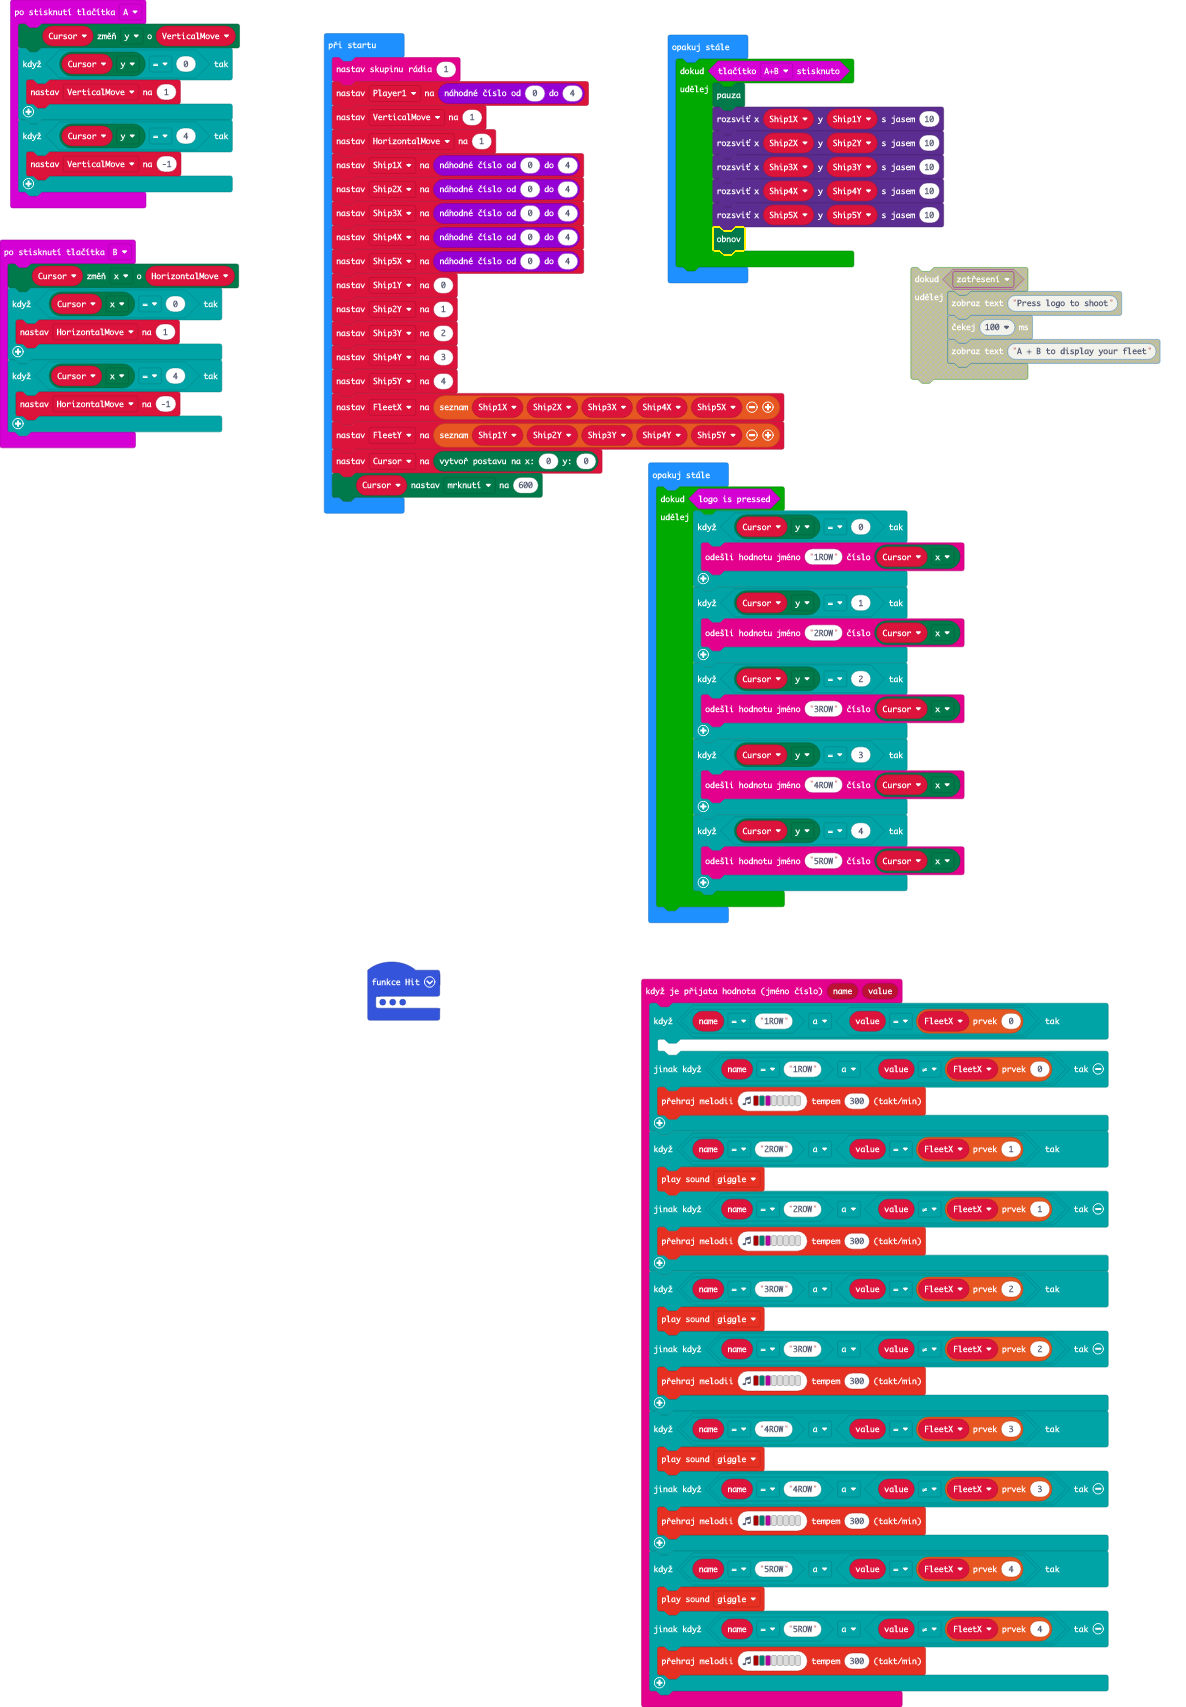
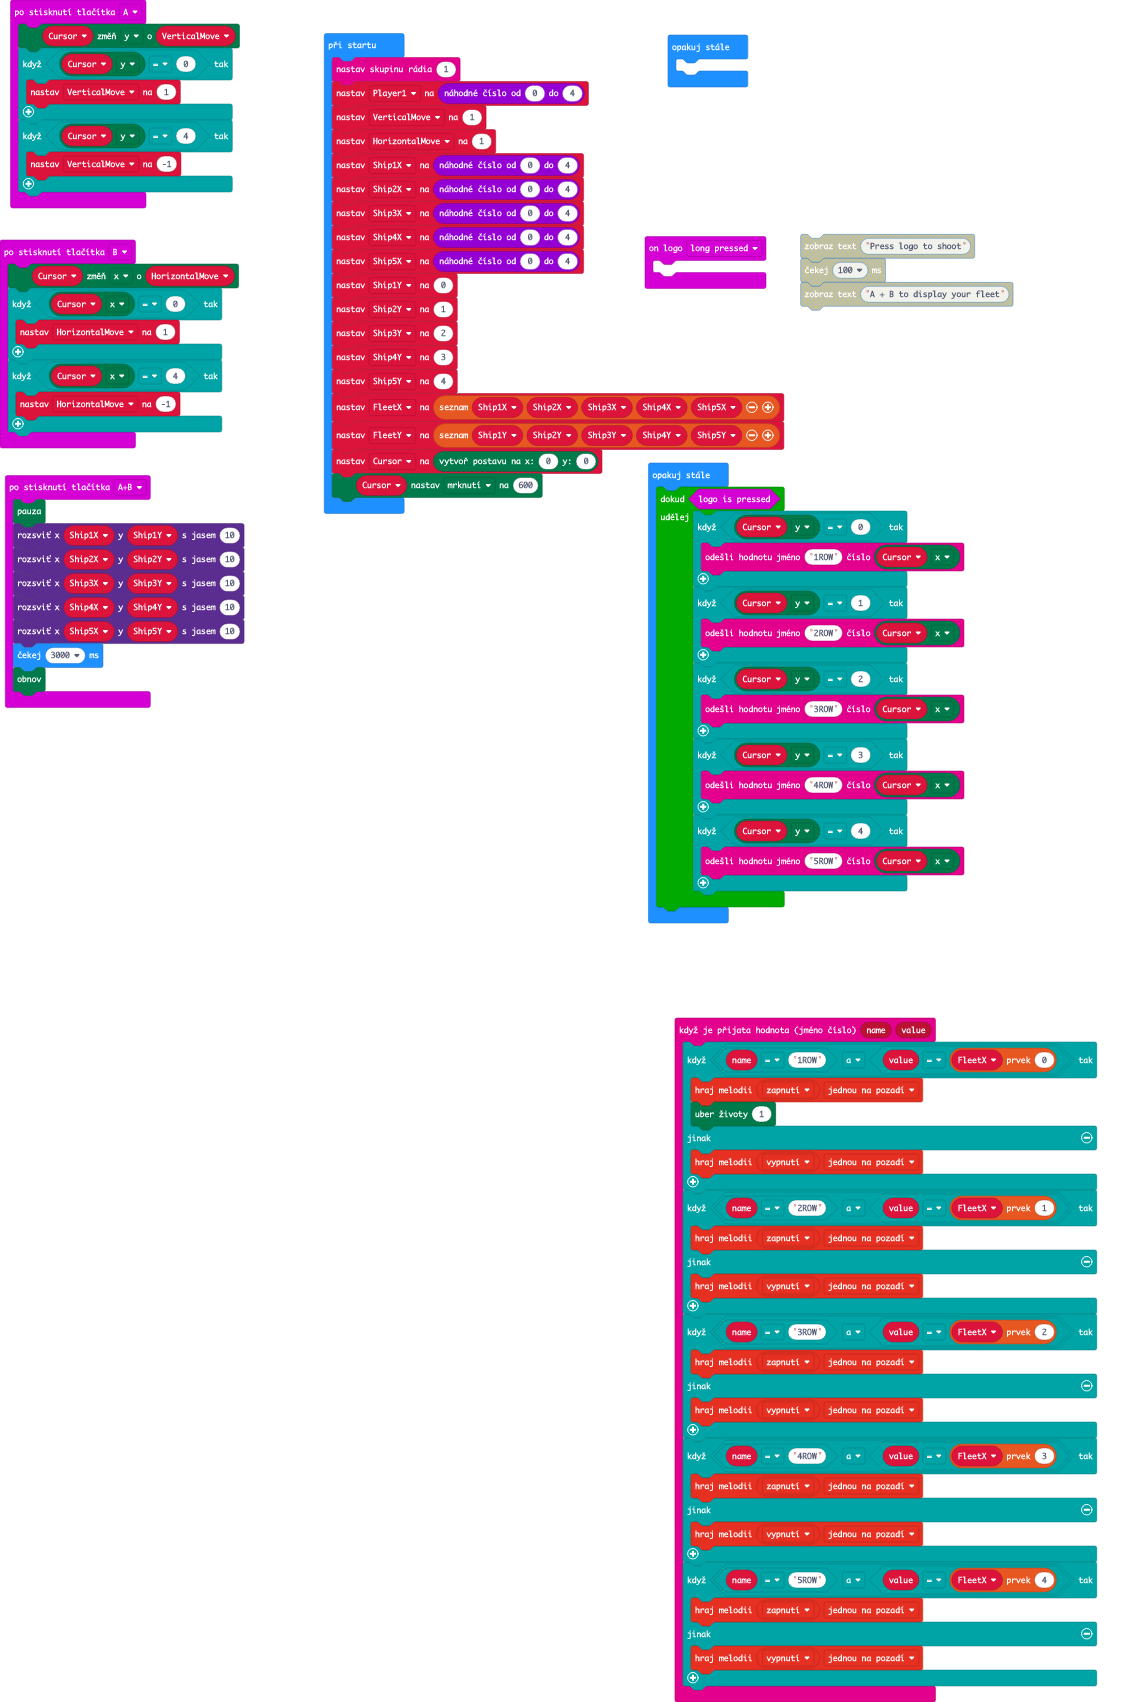
Final sound efx, A+B hint improved

diff --git a/main.ts b/main.ts
@@ -1,3 +1,6 @@
+input.onLogoEvent(TouchButtonEvent.LongPressed, function () {
+	
+})
 input.onButtonPressed(Button.A, function () {
     Cursor.change(LedSpriteProperty.Y, VerticalMove)
     if (Cursor.get(LedSpriteProperty.Y) == 0) {
@@ -6,6 +9,16 @@ input.onButtonPressed(Button.A, function () {
     if (Cursor.get(LedSpriteProperty.Y) == 4) {
         VerticalMove = -1
     }
+})
+input.onButtonPressed(Button.AB, function () {
+    game.pause()
+    led.plotBrightness(Ship1X, Ship1Y, 10)
+    led.plotBrightness(Ship2X, Ship2Y, 10)
+    led.plotBrightness(Ship3X, Ship3Y, 10)
+    led.plotBrightness(Ship4X, Ship4Y, 10)
+    led.plotBrightness(Ship5X, Ship5Y, 10)
+    basic.pause(3000)
+    game.resume()
 })
 input.onButtonPressed(Button.B, function () {
     Cursor.change(LedSpriteProperty.X, HorizontalMove)
@@ -18,67 +31,66 @@ input.onButtonPressed(Button.B, function () {
 })
 radio.onReceivedValue(function (name, value) {
     if (name == "1ROW" && value == FleetX[0]) {
-    	
-    } else if (name == "1ROW" && value != FleetX[0]) {
-        music.playMelody("C5 F C - - - - - ", 300)
+        music.startMelody(music.builtInMelody(Melodies.PowerUp), MelodyOptions.OnceInBackground)
+        game.removeLife(1)
+    } else {
+        music.startMelody(music.builtInMelody(Melodies.PowerDown), MelodyOptions.OnceInBackground)
     }
     if (name == "2ROW" && value == FleetX[1]) {
-        soundExpression.giggle.play()
-    } else if (name == "2ROW" && value != FleetX[1]) {
-        music.playMelody("C5 F C - - - - - ", 300)
+        music.startMelody(music.builtInMelody(Melodies.PowerUp), MelodyOptions.OnceInBackground)
+    } else {
+        music.startMelody(music.builtInMelody(Melodies.PowerDown), MelodyOptions.OnceInBackground)
     }
     if (name == "3ROW" && value == FleetX[2]) {
-        soundExpression.giggle.play()
-    } else if (name == "3ROW" && value != FleetX[2]) {
-        music.playMelody("C5 F C - - - - - ", 300)
+        music.startMelody(music.builtInMelody(Melodies.PowerUp), MelodyOptions.OnceInBackground)
+    } else {
+        music.startMelody(music.builtInMelody(Melodies.PowerDown), MelodyOptions.OnceInBackground)
     }
     if (name == "4ROW" && value == FleetX[3]) {
-        soundExpression.giggle.play()
-    } else if (name == "4ROW" && value != FleetX[3]) {
-        music.playMelody("C5 F C - - - - - ", 300)
+        music.startMelody(music.builtInMelody(Melodies.PowerUp), MelodyOptions.OnceInBackground)
+    } else {
+        music.startMelody(music.builtInMelody(Melodies.PowerDown), MelodyOptions.OnceInBackground)
     }
     if (name == "5ROW" && value == FleetX[4]) {
-        soundExpression.giggle.play()
-    } else if (name == "5ROW" && value != FleetX[4]) {
-        music.playMelody("C5 F C - - - - - ", 300)
+        music.startMelody(music.builtInMelody(Melodies.PowerUp), MelodyOptions.OnceInBackground)
+    } else {
+        music.startMelody(music.builtInMelody(Melodies.PowerDown), MelodyOptions.OnceInBackground)
     }
 })
-function Hit () {
-    radio.sendValue("1ROW-HIT", FleetX[0])
-    soundExpression.giggle.play()
-}
 let Cursor: game.LedSprite = null
 let FleetX: number[] = []
+let Ship5Y = 0
+let Ship4Y = 0
+let Ship3Y = 0
+let Ship2Y = 0
+let Ship1Y = 0
+let Ship5X = 0
+let Ship4X = 0
+let Ship3X = 0
+let Ship2X = 0
+let Ship1X = 0
 let HorizontalMove = 0
 let VerticalMove = 0
 radio.setGroup(1)
 let Player1 = randint(0, 4)
 VerticalMove = 1
 HorizontalMove = 1
-let Ship1X = randint(0, 4)
-let Ship2X = randint(0, 4)
-let Ship3X = randint(0, 4)
-let Ship4X = randint(0, 4)
-let Ship5X = randint(0, 4)
-let Ship1Y = 0
-let Ship2Y = 1
-let Ship3Y = 2
-let Ship4Y = 3
-let Ship5Y = 4
+Ship1X = randint(0, 4)
+Ship2X = randint(0, 4)
+Ship3X = randint(0, 4)
+Ship4X = randint(0, 4)
+Ship5X = randint(0, 4)
+Ship1Y = 0
+Ship2Y = 1
+Ship3Y = 2
+Ship4Y = 3
+Ship5Y = 4
 FleetX = [Ship1X, Ship2X, Ship3X, Ship4X, Ship5X]
 let FleetY = [Ship1Y, Ship2Y, Ship3Y, Ship4Y, Ship5Y]
 Cursor = game.createSprite(0, 0)
 Cursor.set(LedSpriteProperty.Blink, 600)
 basic.forever(function () {
-    while (input.buttonIsPressed(Button.AB)) {
-        game.pause()
-        led.plotBrightness(Ship1X, Ship1Y, 10)
-        led.plotBrightness(Ship2X, Ship2Y, 10)
-        led.plotBrightness(Ship3X, Ship3Y, 10)
-        led.plotBrightness(Ship4X, Ship4Y, 10)
-        led.plotBrightness(Ship5X, Ship5Y, 10)
-        game.resume()
-    }
+	
 })
 basic.forever(function () {
     while (input.logoIsPressed()) {
